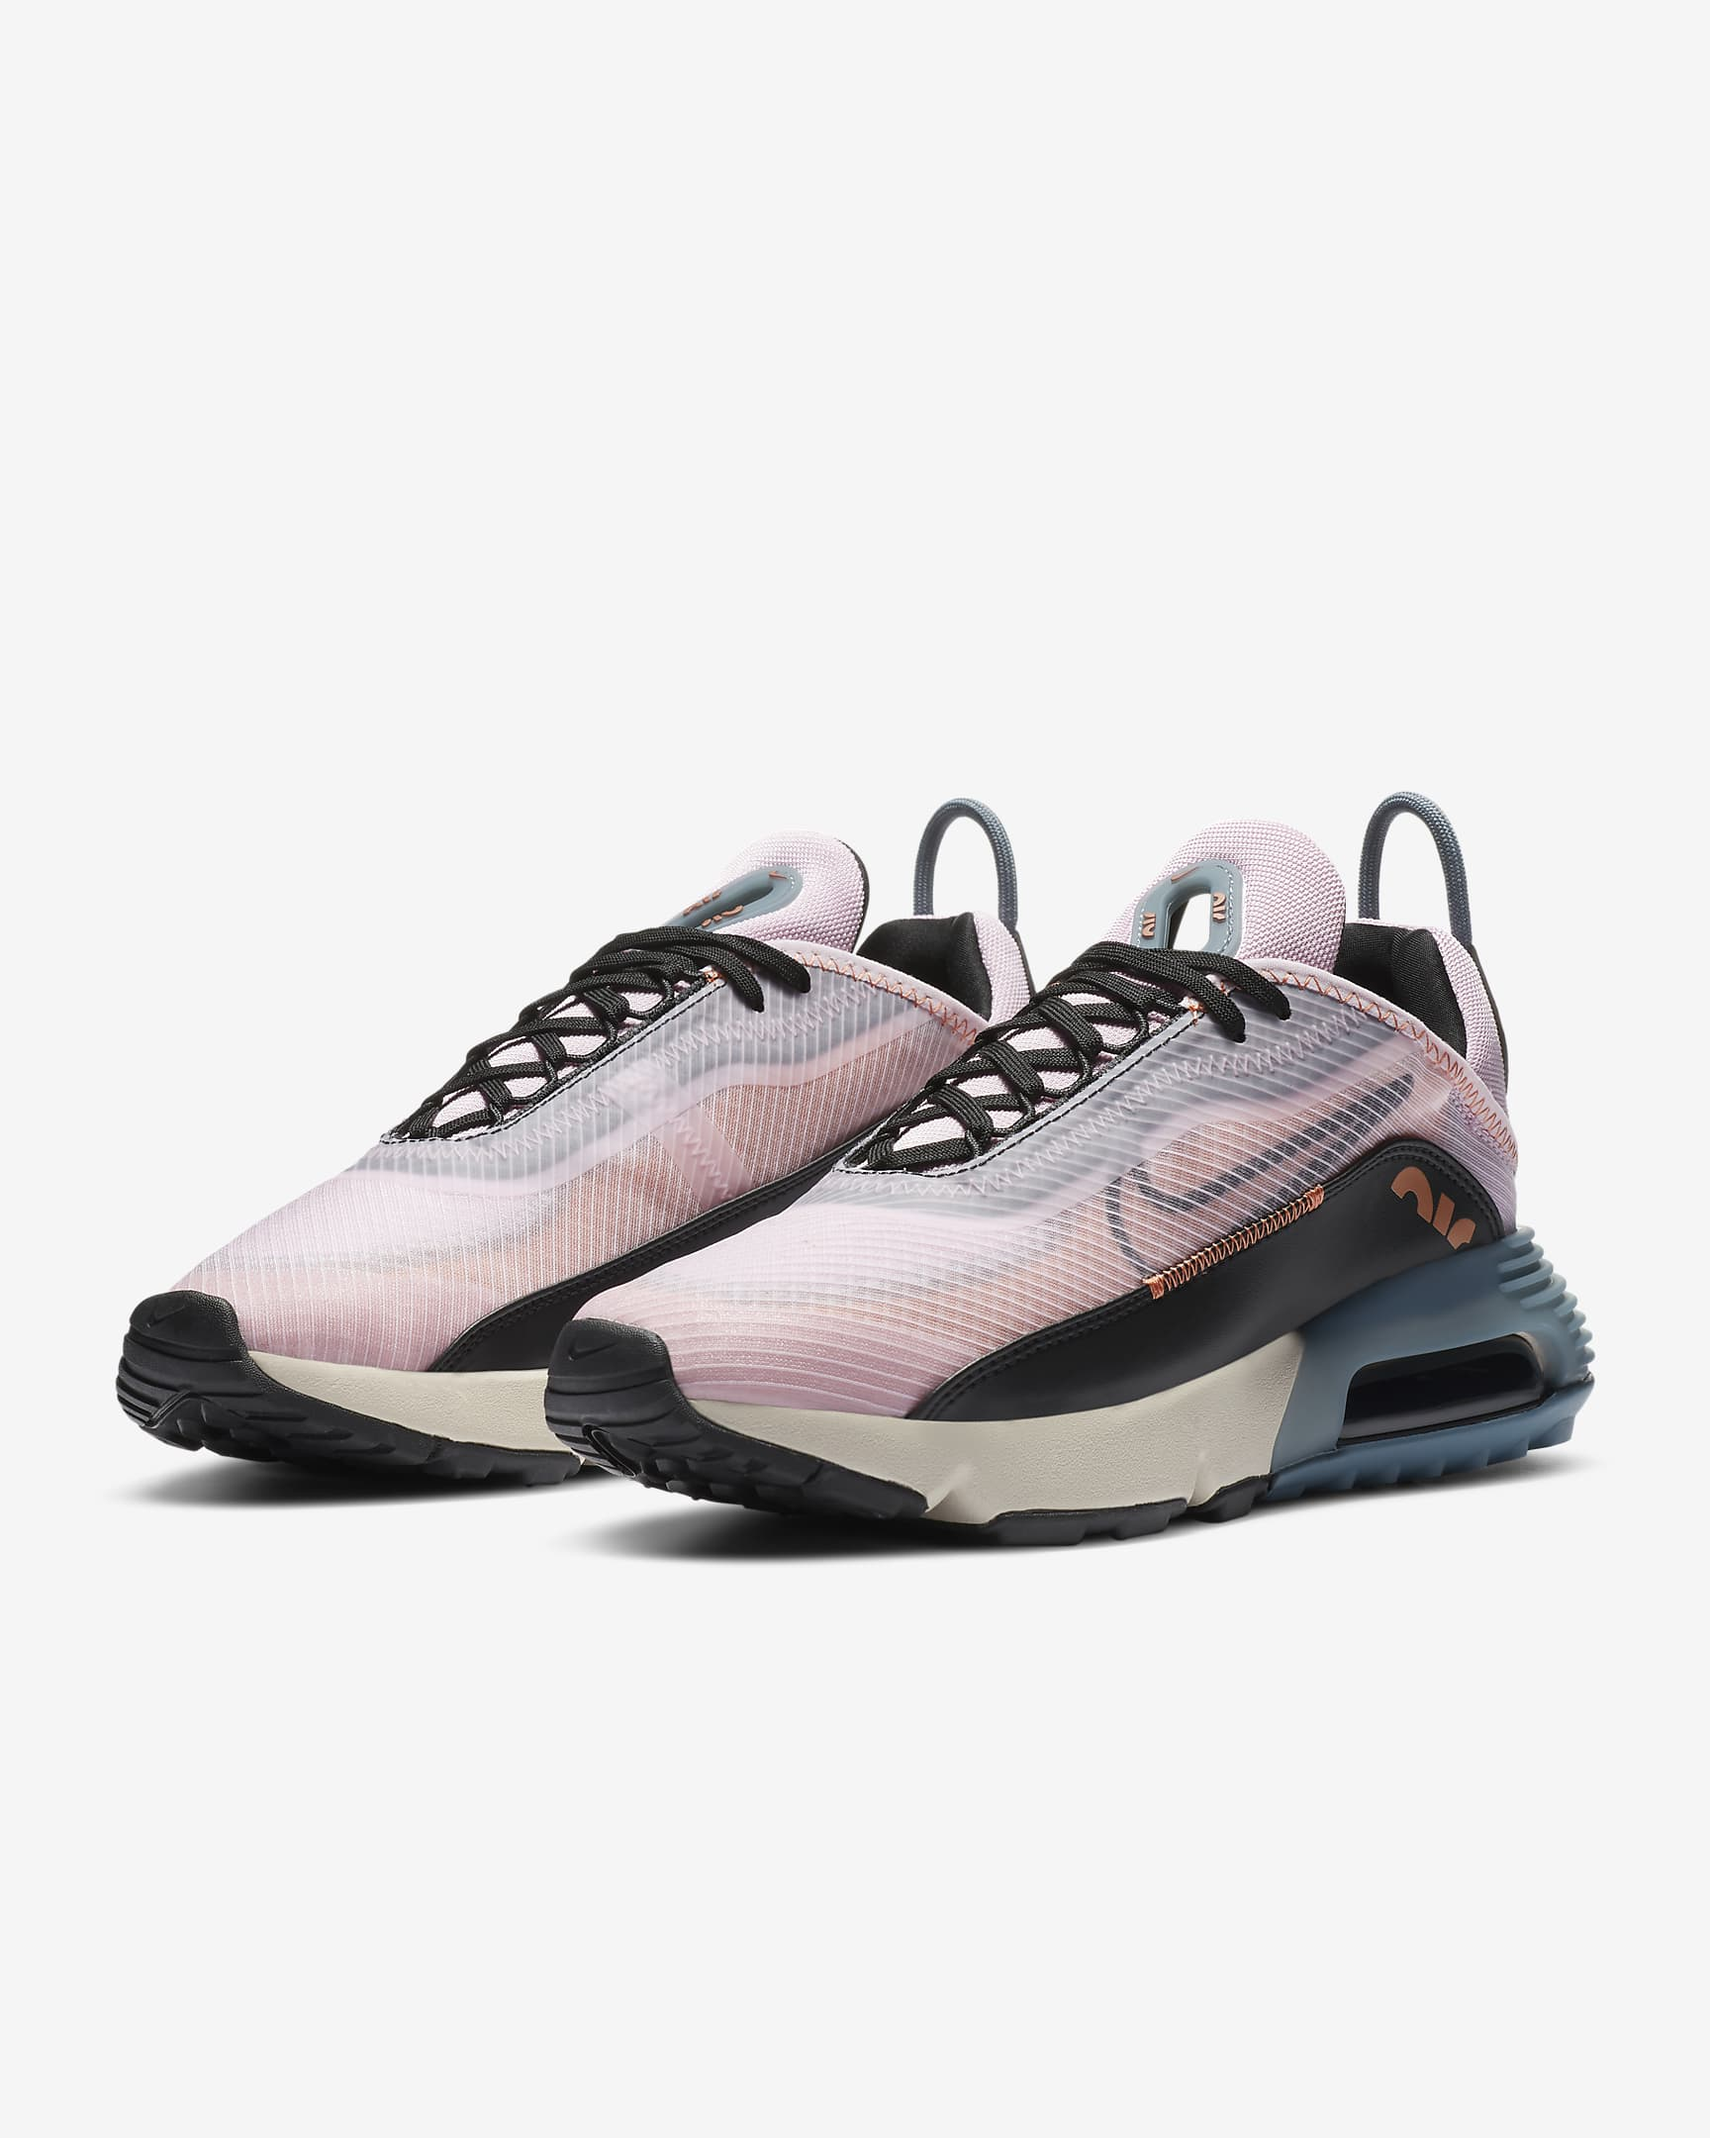
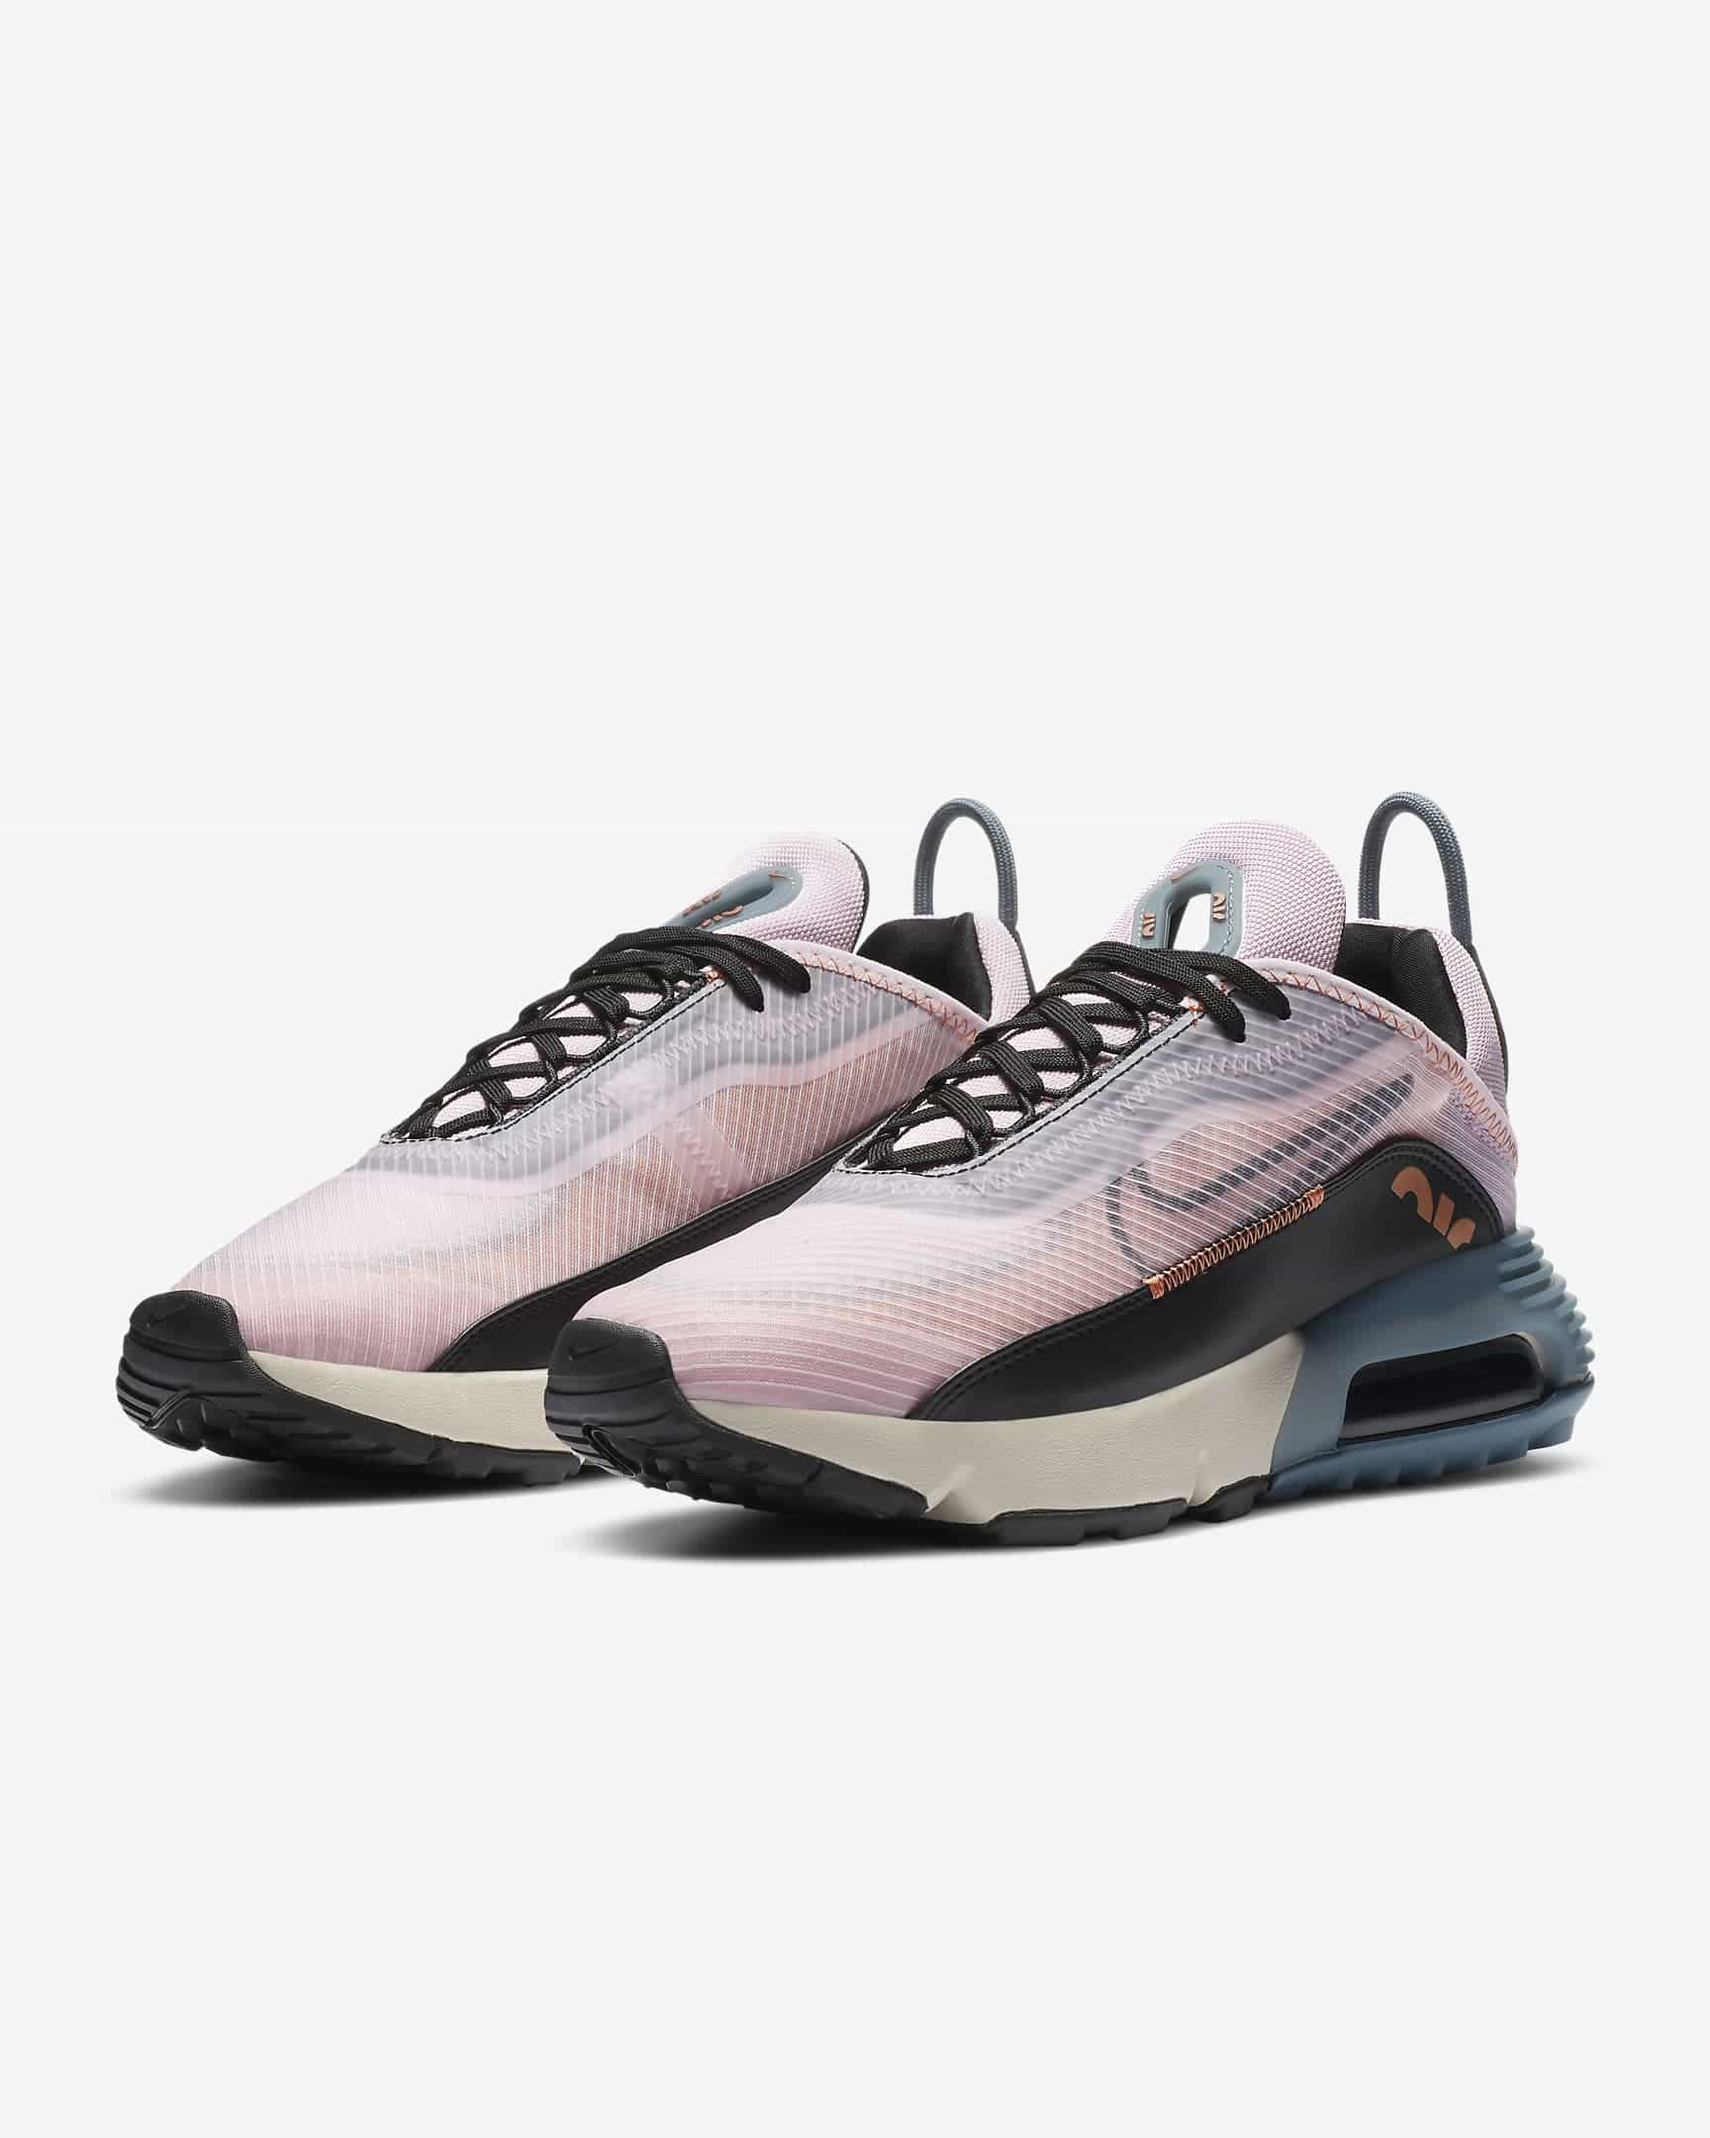
Image Compression
-For loading times

Changed region(s): [[0.5625, 0.4653, 0.6562, 0.5273], [0.75, 0.4343, 0.7812, 0.4653], [0.2812, 0.4963, 0.3125, 0.5273]]

diff --git a/app.js b/app.js
@@ -42,11 +42,11 @@ app.controller("ProductsController", function ($scope) {
 });
 
 app.controller("ContactController", function ($scope) {
-    $scope.phoneNumbers = ["(012) 333 4444", "(011) 222 5555"];
+    $scope.phoneNumbers = ["(012) 567 8910", "(011) 654 2452"];
     $scope.emailAddresses = {
-        events: "events@shoebox.co.za",
-        feedback: "feedback@shoebox.co.za",
-        general: "info@shoebox.co.za"
+        Events: "events@connoisseur.co.za",
+        Feedback: "feedback@connoisseur.co.za",
+        General: "info@connoisseur.co.za"
     }
 
     $scope.headerContact = "./templates/components/header-contact.html";

diff --git a/templates/contact.html b/templates/contact.html
@@ -3,12 +3,16 @@
 
     <!-- Contact Container -->
     <div class="container contact col-xl-10">
+        
+        <div class="contact-image col-xl-12">
+            <img src="../assets/img/andy-art-LGylxAvpl3k-unsplash.jpg">
+        </div>
 
         <p>Want to get in touch? Take a look at our details below</p>
 
         <p>Phone Numbers</p>
-        <ul>
-            <li ng-repeat="num in phoneNumbers">{{ num }}</li>
+        <ul >
+            <li ng-repeat="num in phoneNumbers" class="contact-numbers">{{ num }}</li>
         </ul>
 
         <p>Email Address</p>

diff --git a/styles.css b/styles.css
@@ -118,6 +118,7 @@ p {
   line-height: 20px;
   letter-spacing: 0.5px;
   margin: 20px 0 30px;
+  font-family: "sofia_proregular";
 }
 
 li {
@@ -647,6 +648,25 @@ CONTENT
   background-repeat: no-repeat;
   background-size: cover;
   height: 40vh;
+}
+
+.contact-numbers {
+  color: #1e1e1e;
+}
+
+.contact-image {
+  height: 30vh;
+  margin-bottom: 5vh;
+  margin-top: 5vh;
+  object-fit: cover;
+  border-radius: 20px;
+}
+
+.contact-image img {
+  height: 100%;
+  width: 100%;
+  object-fit: cover;
+  border-radius: 20px;
 }
 
 /*

diff --git a/templates/components/header-contact.html b/templates/components/header-contact.html
@@ -20,6 +20,10 @@
                         <i class="fa fa-phone" aria-hidden="true"></i>
                         <a href="#!contact">Contact</a>
                     </li>
+                    <li>
+                        <i class="fa fa-phone" aria-hidden="true"></i>
+                        <a href="#!contact">About Us</a>
+                    </li>
                 </ul> <!-- Nav Links List -->
                 <div class="burger">
                     <div class="line1"></div>

diff --git a/templates/components/header-home.html b/templates/components/header-home.html
@@ -20,6 +20,10 @@
                         <i class="fa fa-phone" aria-hidden="true"></i>
                         <a href="#!contact">Contact</a>
                     </li>
+                    <li>
+                        <i class="fa fa-phone" aria-hidden="true"></i>
+                        <a href="#!contact">About Us</a>
+                    </li>
                 </ul> <!-- Nav Links List -->
                 <div class="burger">
                     <div class="line1"></div>

diff --git a/templates/components/header-products.html b/templates/components/header-products.html
@@ -20,6 +20,10 @@
                         <i class="fa fa-phone" aria-hidden="true"></i>
                         <a href="#!contact">Contact</a>
                     </li>
+                    <li>
+                        <i class="fa fa-phone" aria-hidden="true"></i>
+                        <a href="#!contact">About Us</a>
+                    </li>
                 </ul> <!-- Nav Links List -->
                 <div class="burger">
                     <div class="line1"></div>
